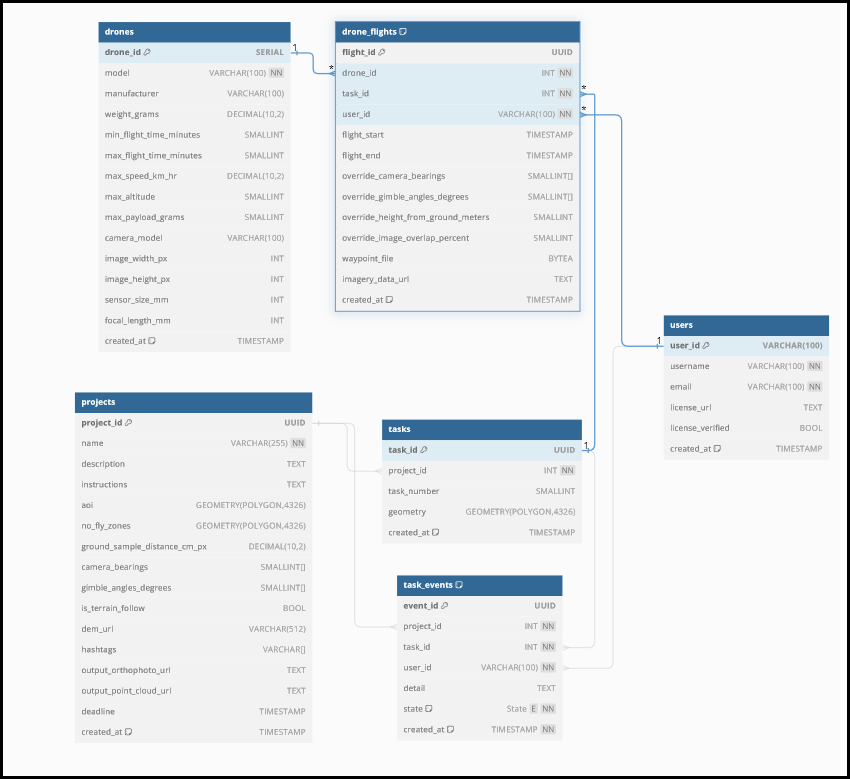
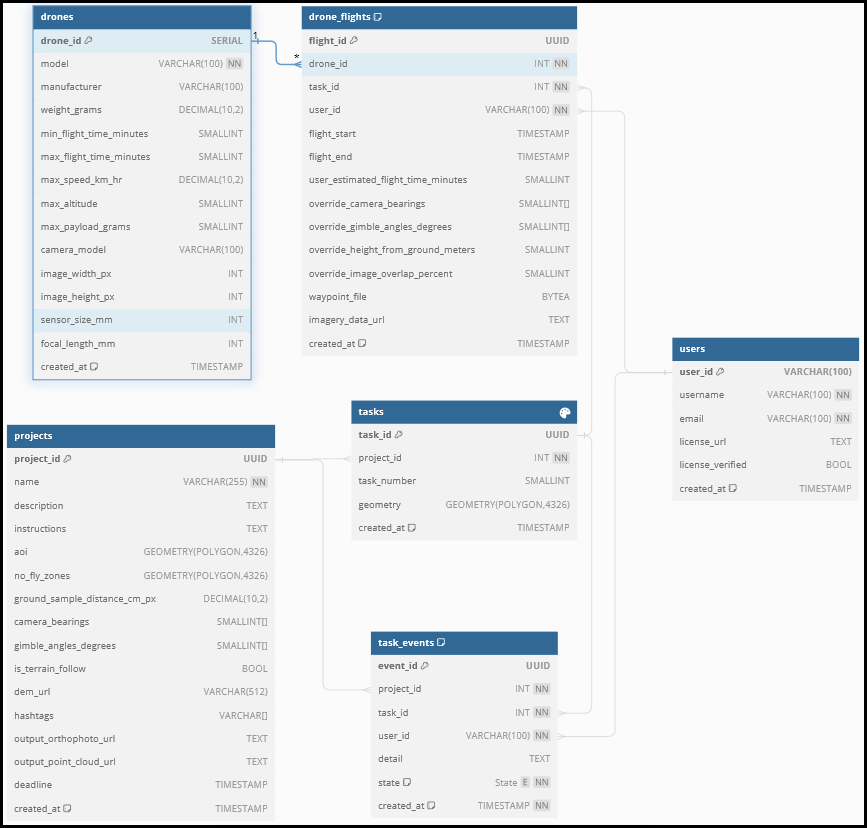
docs: update schema v2 to include user estimated flight time

diff --git a/db_design/README.md b/db_design/README.md
@@ -55,6 +55,16 @@ See `CHANGELOG.md`!
       - The signup link could be specific to also lock the task once they
         successfully sign up.
 
+### User provided drone flight time
+
+- We record the min and max flight times for drones from manufacturer specs.
+- Actual flight time is likely less due to battery degredation, flight
+  conditions, etc.
+- When the user is generating a flight plan, I would suggest we provide an
+  optional field for the user to provide their approx drone flight time.
+  - We can suggest the recommended ranges from the manufacturer as a guide.
+  - If they provide us a value, we factor this into the flight plan.
+
 ## ~~Partitioning `task_actions`~~
 
 **EDIT this is probably not a good idea - it overcomplicates the design and we can probably do everything we need with effective indexing & deleting data older than 10yrs**

diff --git a/db_design/CHANGELOG.md b/db_design/CHANGELOG.md
@@ -22,6 +22,9 @@
 - Add projects.output_orthophoto_url & projects.output_point_cloud_url
 - Add projects.deadline timestamp
 - Add users.license_url and users.license_verified
+- Add drone_flights.user_estimated_flight_time_minutes to allow users to specify
+  a flight time that their drone is capable of (they may have a degraded battery
+  etc).
 
 ## v1
 
